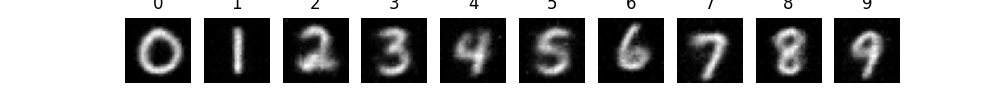
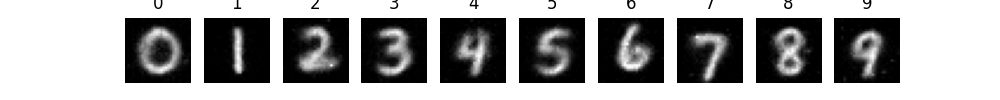
Implemented the rectified flow method.

diff --git a/script/inference.py b/script/inference.py
@@ -6,7 +6,6 @@ if ROOT_DIR not in sys.path:
     sys.path.append(ROOT_DIR)
 
 import torch
-import torch
 try:
     import torchdiffeq
 except ImportError:
@@ -18,7 +17,8 @@ from config import *
 import argparse
 
 parser = argparse.ArgumentParser()
-parser.add_argument("--method", type=str, default="cfm", choices=["cfm", "mean_flow"], help="Inference method: 'cfm' or 'mean_flow'")
+parser.add_argument("--method", type=str, default="cfm", choices=["cfm", "mean_flow", "mean_flow_rectified"], help="Inference method: 'cfm', 'mean_flow', or 'mean_flow_rectified'")
+parser.add_argument("--model_path", type=str, default=None, help="Path to model checkpoint. If None, defaults to model_{method}.pt")
 args = parser.parse_args()
 
 steps=50
@@ -31,7 +31,7 @@ def sample(model, cls, slant):
     n_sample = len(cls)
     x = torch.randn((n_sample, 1, 28, 28)).to(DEVICE)
     
-    if args.method == "mean_flow":
+    if args.method in ["mean_flow", "mean_flow_rectified"]:
         # One-step generation
         # t is irrelevant for MeanFlow model (use_time=False), but we pass a dummy
         t_dummy = torch.zeros(n_sample).to(DEVICE) 
@@ -52,7 +52,10 @@ def sample(model, cls, slant):
     return x.detach()
 
 if __name__ == "__main__":
-    model_name = f"model_{args.method}.pt"
+    if args.model_path is not None:
+        model_name = args.model_path
+    else:
+        model_name = f"model_{args.method}.pt"
     try:
         model = torch.load(model_name, map_location=DEVICE, weights_only=False)
     except Exception as e:

diff --git a/script/train.py b/script/train.py
@@ -25,7 +25,7 @@ import argparse
 EPOCH = int(os.getenv("EPOCH", 500))
 BATCH_SIZE = int(os.getenv("BATCH_SIZE", 400))
 LEARNING_RATE = 0.001
-WANDB_PROJECT = "diffusion-morphomnist"
+WANDB_PROJECT = "flow-morphomnist"
 
 parser = argparse.ArgumentParser()
 parser.add_argument("--method", type=str, default="cfm", choices=["cfm", "mean_flow"], help="Training method: 'cfm' or 'mean_flow'")

diff --git a/README.md b/README.md
@@ -8,11 +8,11 @@ The models incorporate two forms of conditioning: discrete digit identity and a 
 
 ### Inference Results
 
-**Conditional Flow Matching (CFM)**
-![CFM Inference Result](inference_both_cfm.png)
+### Inference Results
 
-**MeanFlow**
-![MeanFlow Inference Result](inference_both_mean_flow.png)
+Comparison between **Conditional Flow Matching (CFM)** (ODE integration), **MeanFlow** (1-step), and **Rectified MeanFlow** (1-step after distillation).
+
+![Inference Comparison](inference_comparison.png)
 
 ## 1. Repository Layout
 
@@ -60,3 +60,23 @@ The script loads `model.pt`, samples random noise vectors, and performs flow mat
 
 ## 5. Acknowledgement
 The original paper for the Morpho-MNIST dataset: https://arxiv.org/pdf/1809.10780
+
+## 6. Rectified Flow Distillation (Improving MeanFlow)
+
+To improve the resolution of MeanFlow (1-step generation) while maintaining its speed, we can use **Rectified Flow** (or Reflow) to distill the high-quality CFM model into current MeanFlow model.
+
+1.  **Generate Rectified Dataset**: Use the trained CFM model to generate (noise, data) pairs connected by ODE trajectories.
+    ```bash
+    python script/distill.py --generate --teacher_path model_cfm.pt --save_path rectified_data.pt
+    ```
+
+2.  **Train Student MeanFlow**: Train the MeanFlow model on the rectified paths.
+    ```bash
+    python script/distill.py --train --save_path rectified_data.pt --student_path model_mean_flow_rectified.pt
+    ```
+
+3.  **Inference**:
+    You can then run inference with the new model directly:
+    ```bash
+    python script/inference.py --method mean_flow_rectified
+    ```
